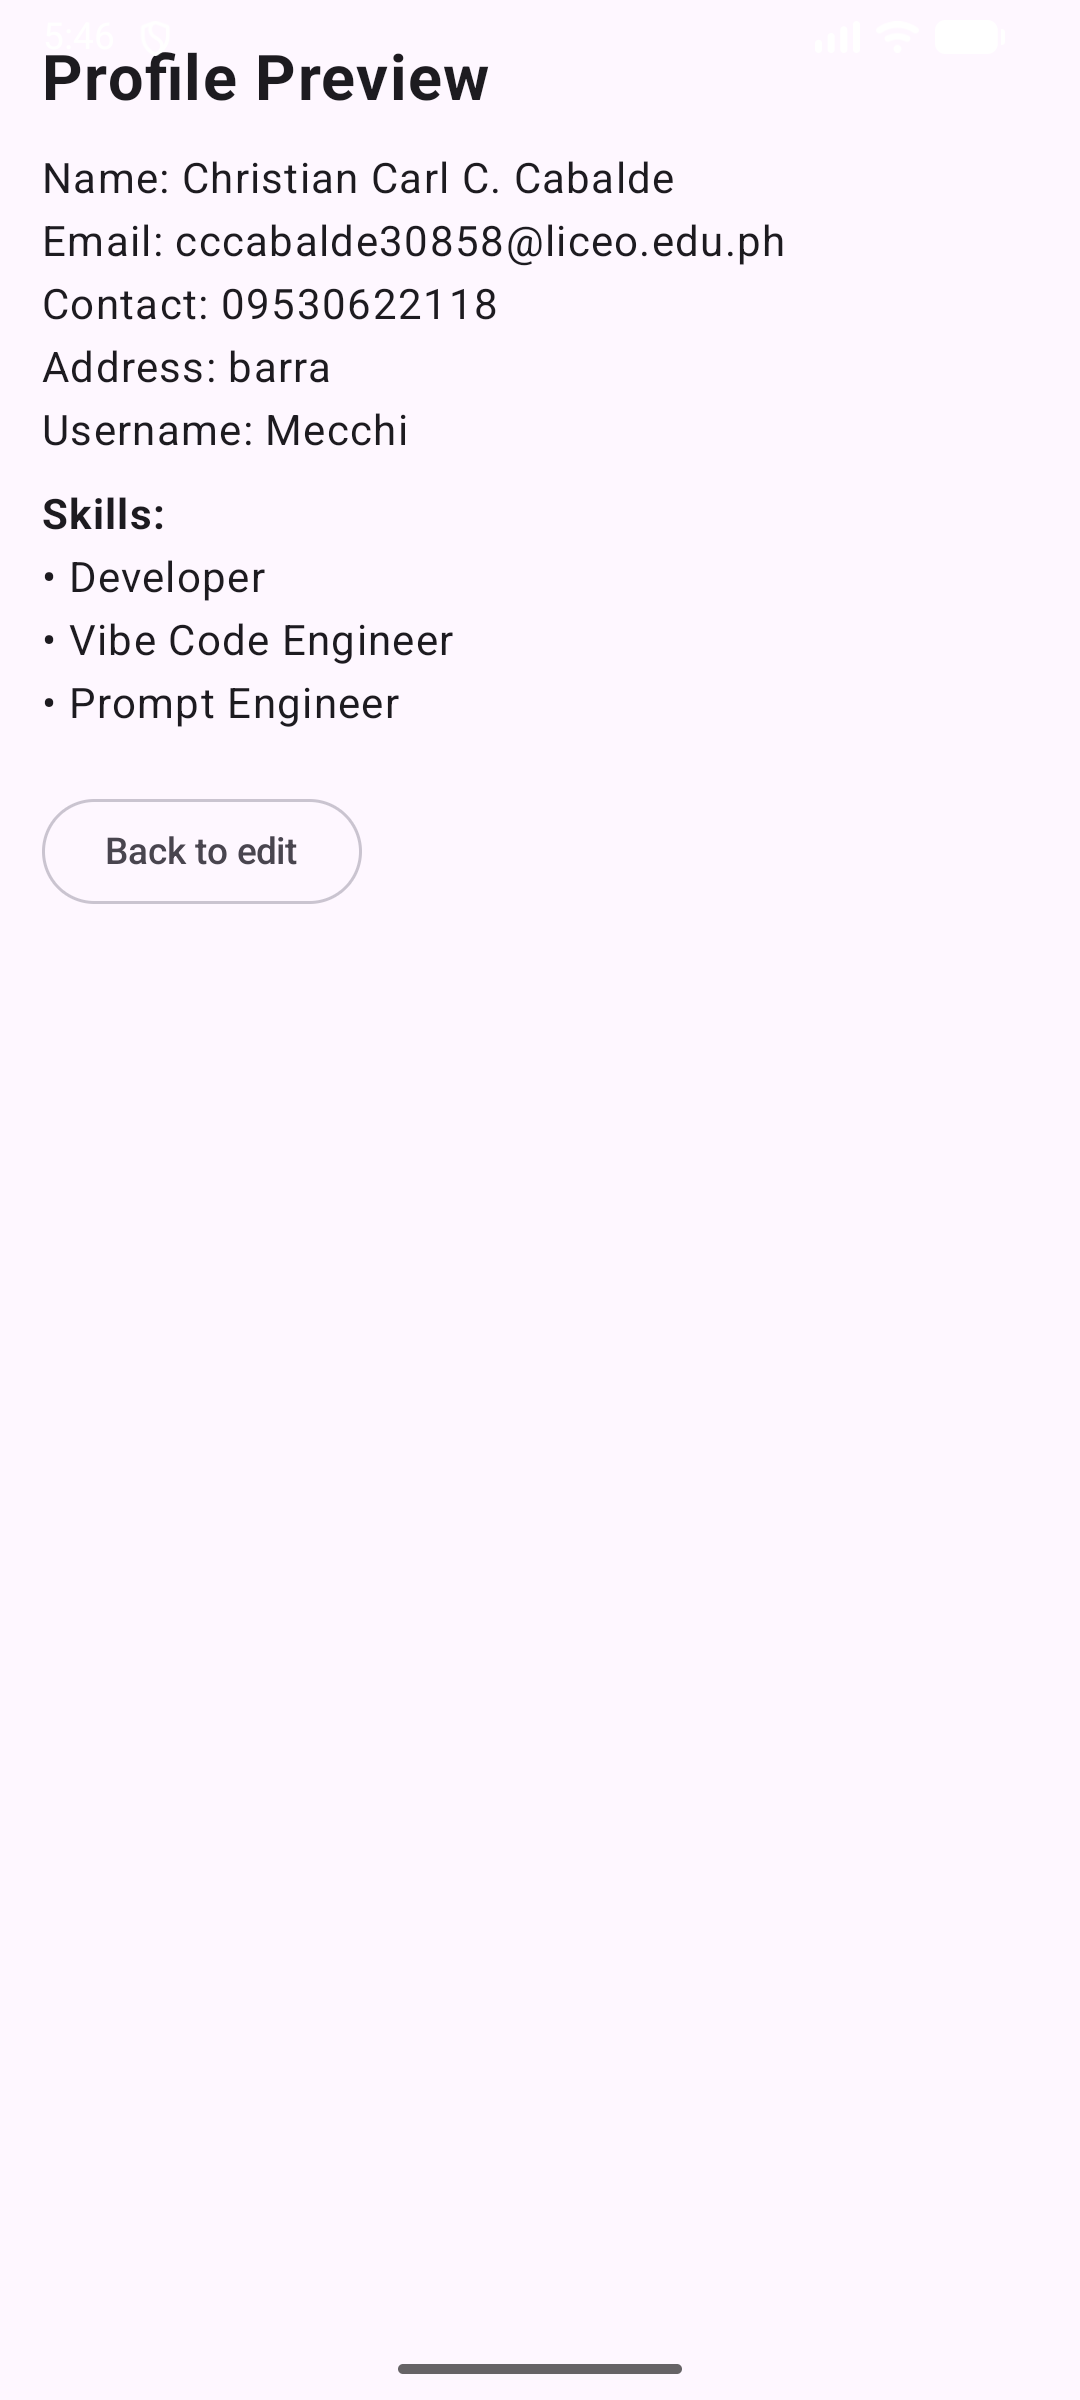
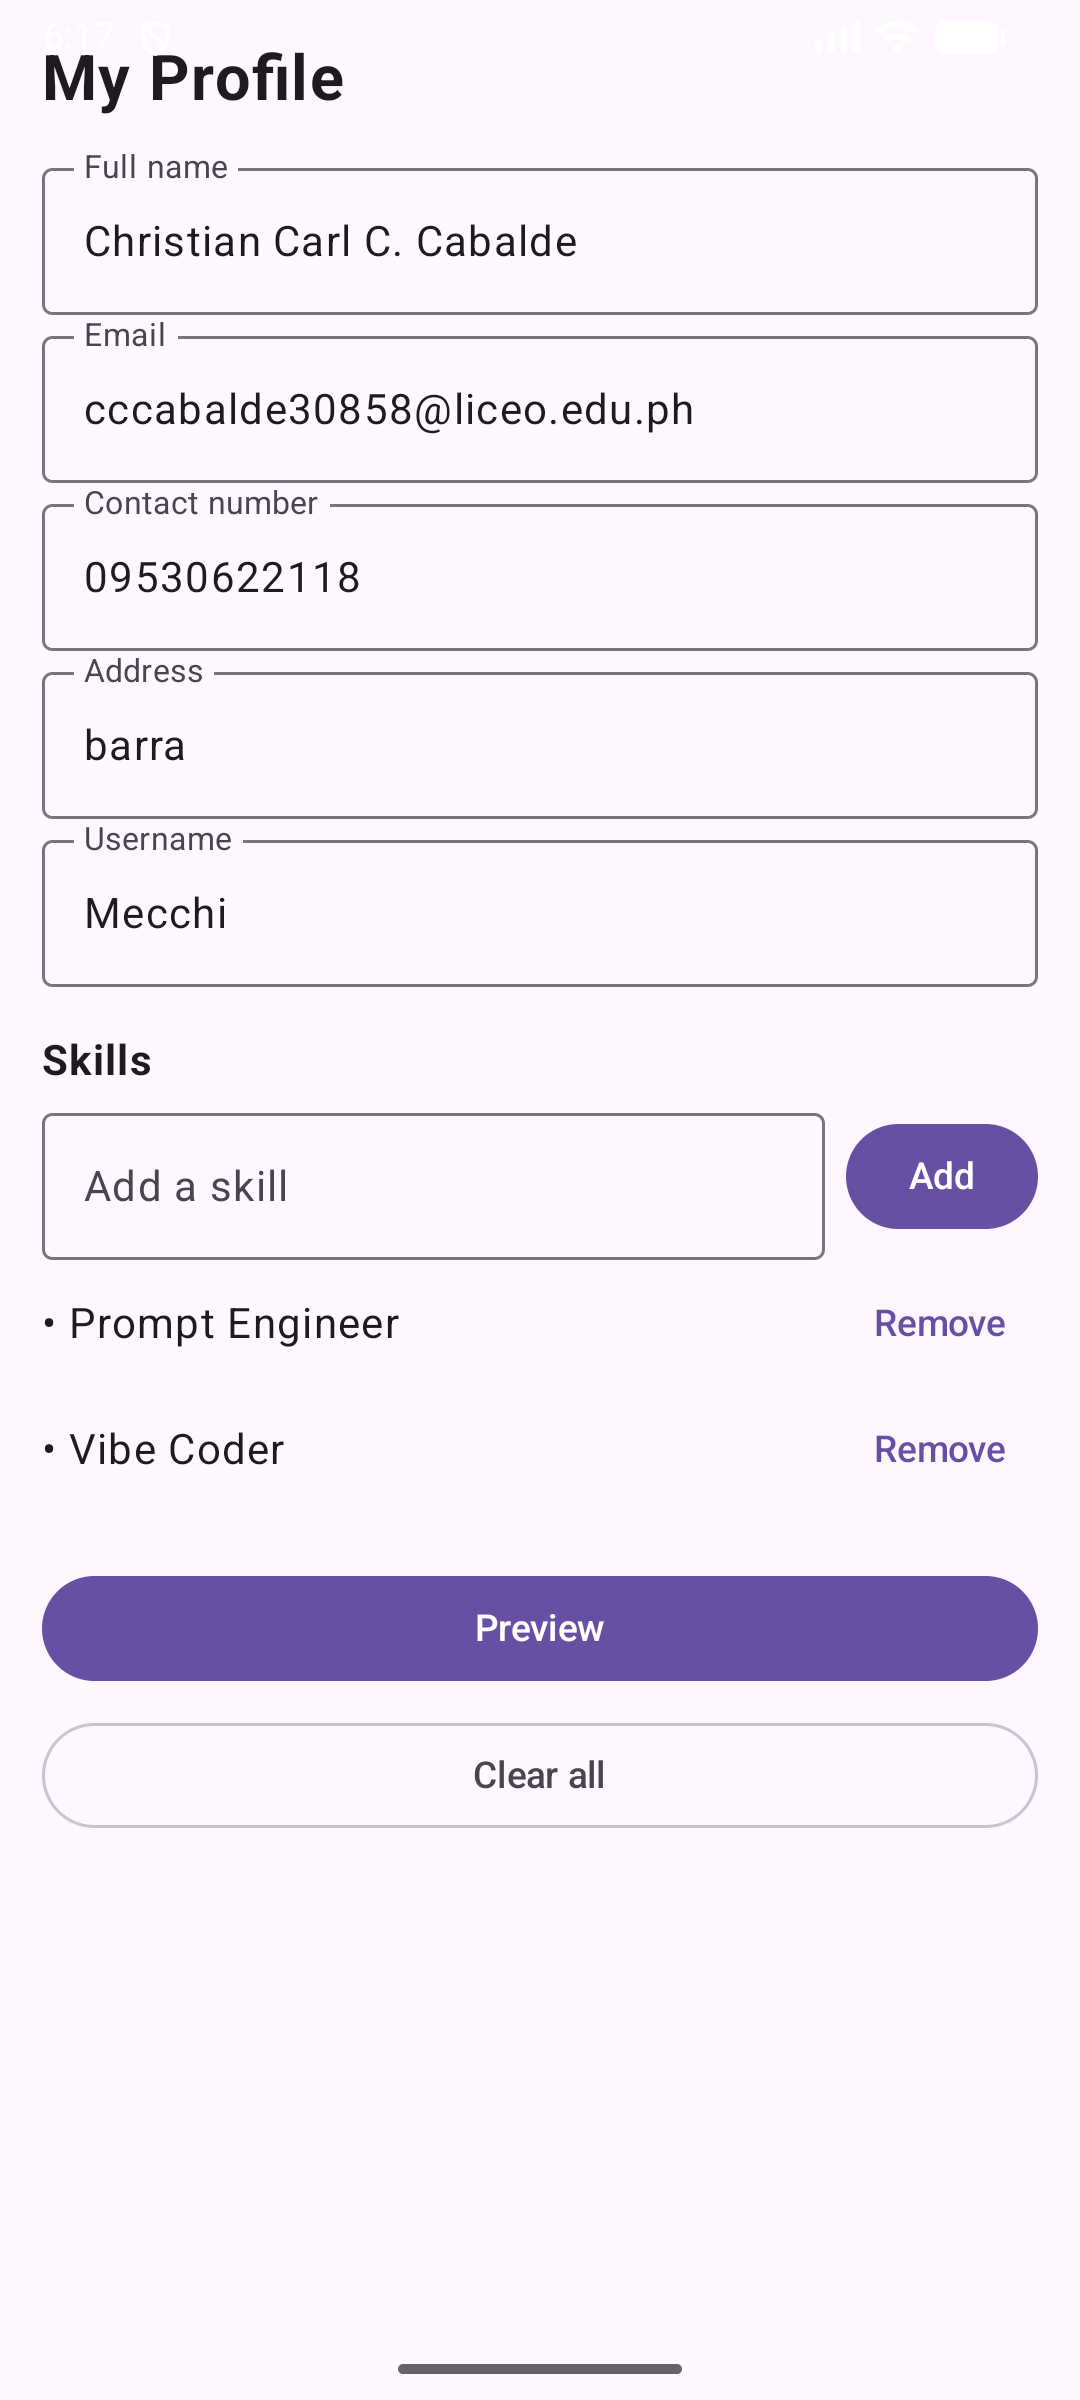
Lab Activity 8: MVVM user profile app

diff --git a/app/src/main/java/com/example/myapplication/ProfileViewModel.kt b/app/src/main/java/com/example/myapplication/ProfileViewModel.kt
@@ -7,7 +7,6 @@ import kotlinx.coroutines.flow.asStateFlow
 import kotlinx.coroutines.flow.update
 
 class ProfileViewModel : ViewModel() {
-
     // Private, editable state — only the ViewModel changes it
     private val _uiState = MutableStateFlow(ProfileUiState())
     // Public, read-only state — the screen observes this
@@ -32,10 +31,12 @@ class ProfileViewModel : ViewModel() {
     fun onNewSkillChange(value: String) =
         _uiState.update { it.copy(newSkill = value) }
 
+
     // --- Add / remove skills ---
     fun addSkill() {
         val skill = _uiState.value.newSkill.trim()
-        if (skill.isEmpty()) return          // ignore empty input
+        // Ignore empty input or duplicates
+        if (skill.isEmpty() || _uiState.value.skills.contains(skill)) return
         _uiState.update { current ->
             current.copy(
                 skills = current.skills + skill, // new list = old + one
@@ -50,8 +51,12 @@ class ProfileViewModel : ViewModel() {
         }
     }
 
-    // --- Preview toggle ---
+    // --- Actions ---
     fun showPreview() = _uiState.update { it.copy(isPreview = true) }
     fun backToEdit() = _uiState.update { it.copy(isPreview = false) }
+
+    fun clearAll() {
+        _uiState.value = ProfileUiState()
+    }
 }
 

diff --git a/app/src/main/java/com/example/myapplication/ProfileScreen.kt b/app/src/main/java/com/example/myapplication/ProfileScreen.kt
@@ -95,9 +95,17 @@ fun ProfileForm(state: ProfileUiState, viewModel: ProfileViewModel) {
         Spacer(Modifier.height(20.dp))
         Button(
             onClick = { viewModel.showPreview() },
-            modifier = Modifier.fillMaxWidth()
+            modifier = Modifier.fillMaxWidth(),
+            enabled = state.name.isNotBlank() && state.email.isNotBlank()
         ) {
             Text("Preview")
+        }
+        Spacer(Modifier.height(8.dp))
+        OutlinedButton(
+            onClick = { viewModel.clearAll() },
+            modifier = Modifier.fillMaxWidth()
+        ) {
+            Text("Clear all")
         }
     }
 }
